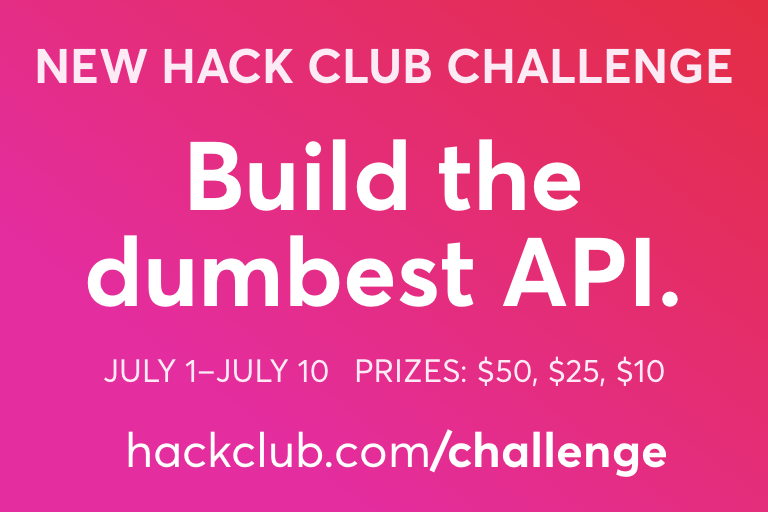
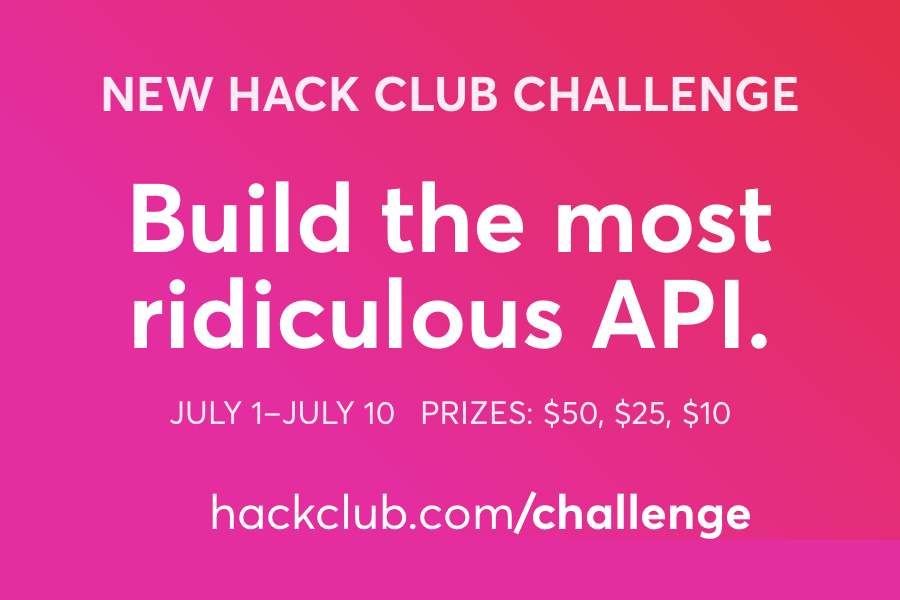
Challenge is challenging. Good morning.

diff --git a/src/pages/challenge.js b/src/pages/challenge.js
@@ -244,7 +244,7 @@ export default class extends Component {
                 <br />
                 📖{' '}
                 <Link
-                  href="/workshops/challenge_dumb_api"
+                  href="/workshops/challenge_ridiculous_api"
                   target="_blank"
                   underline
                 >
